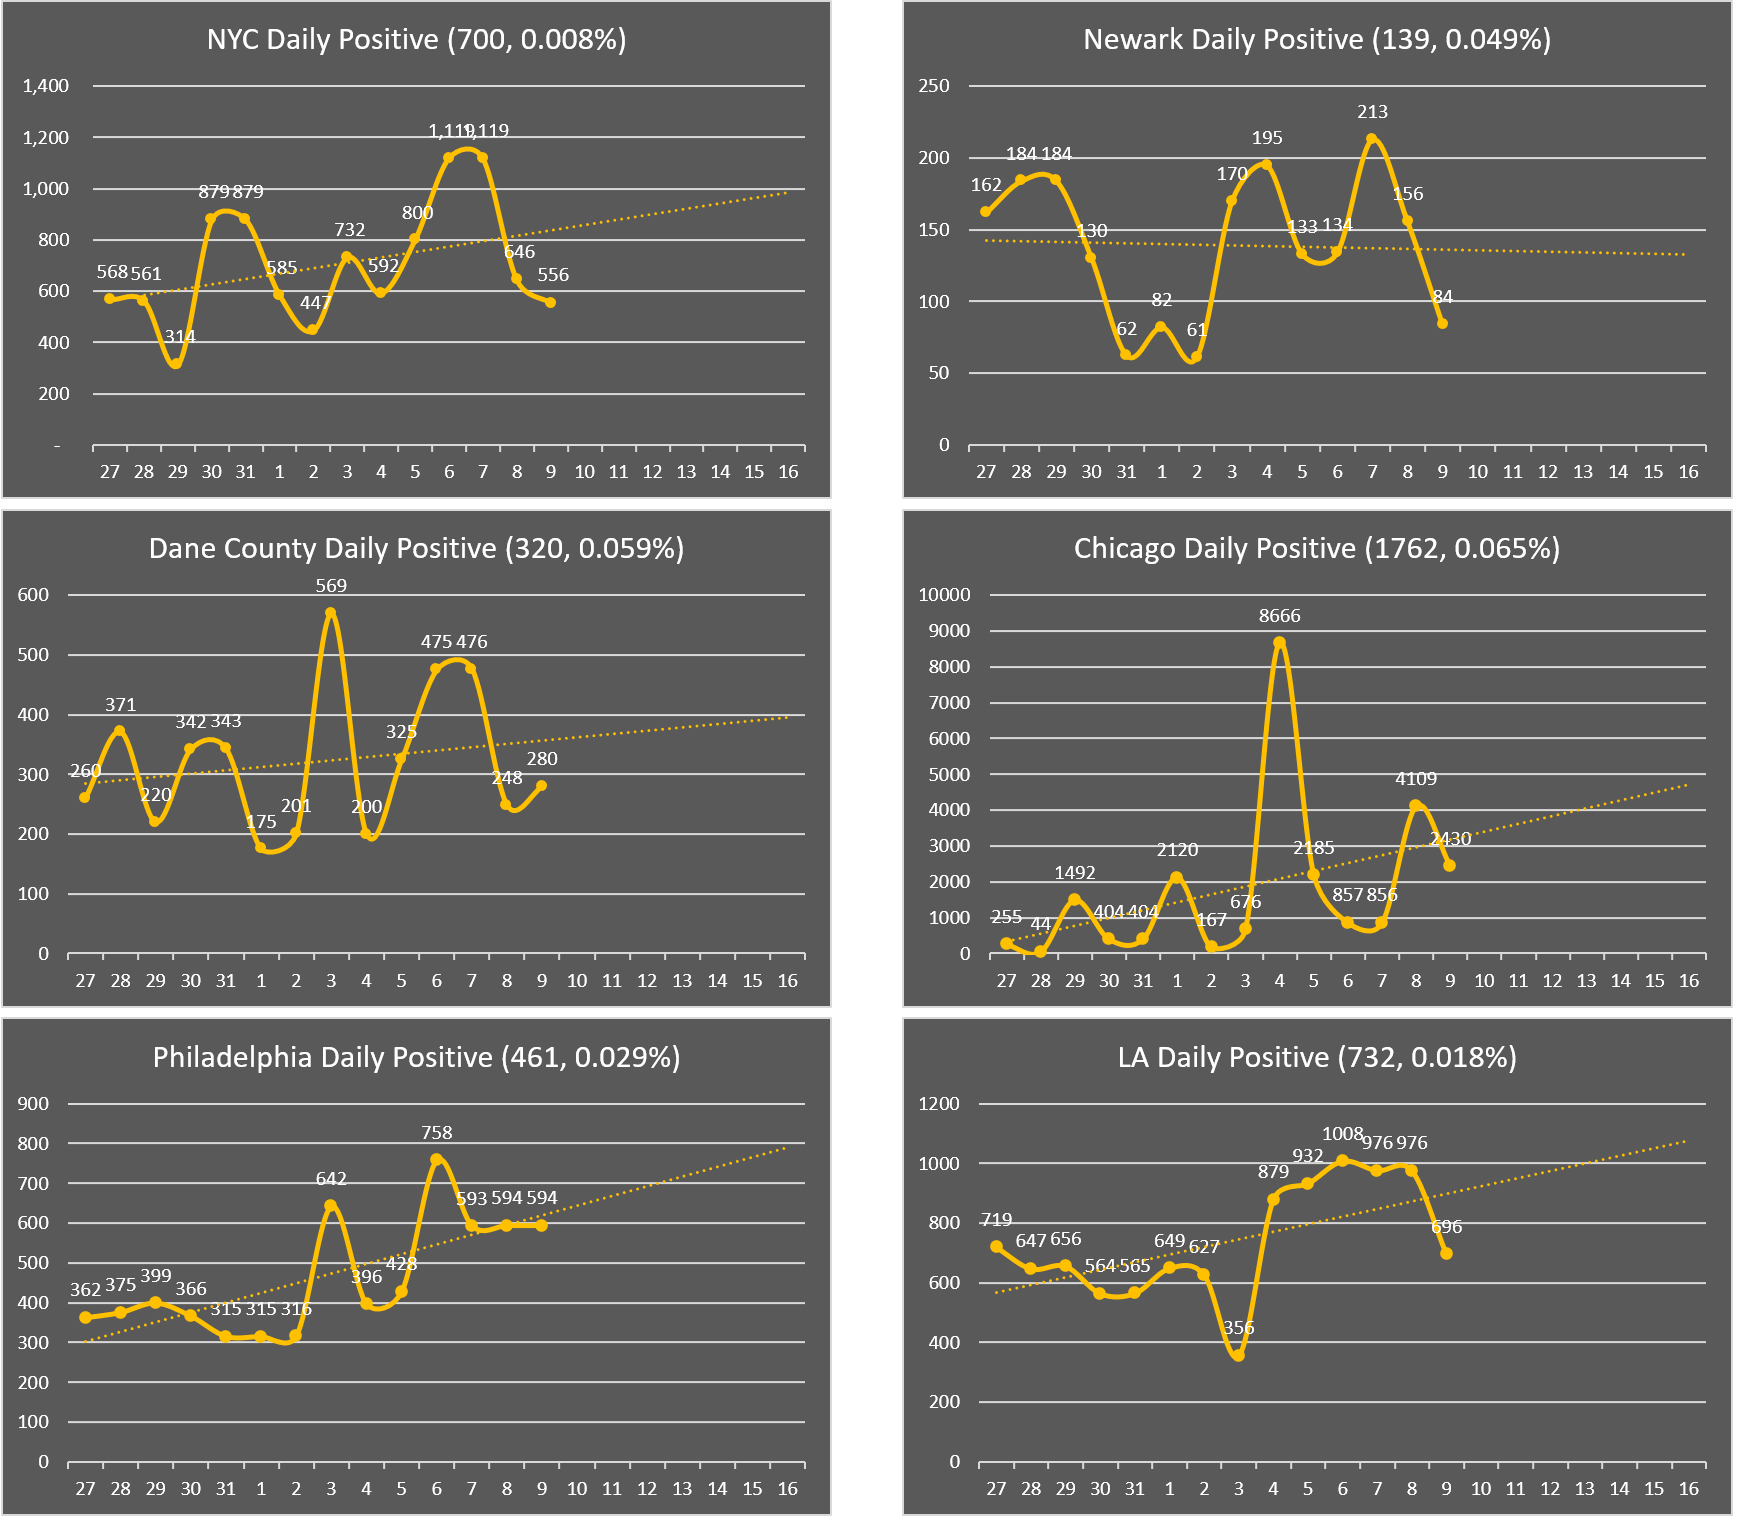
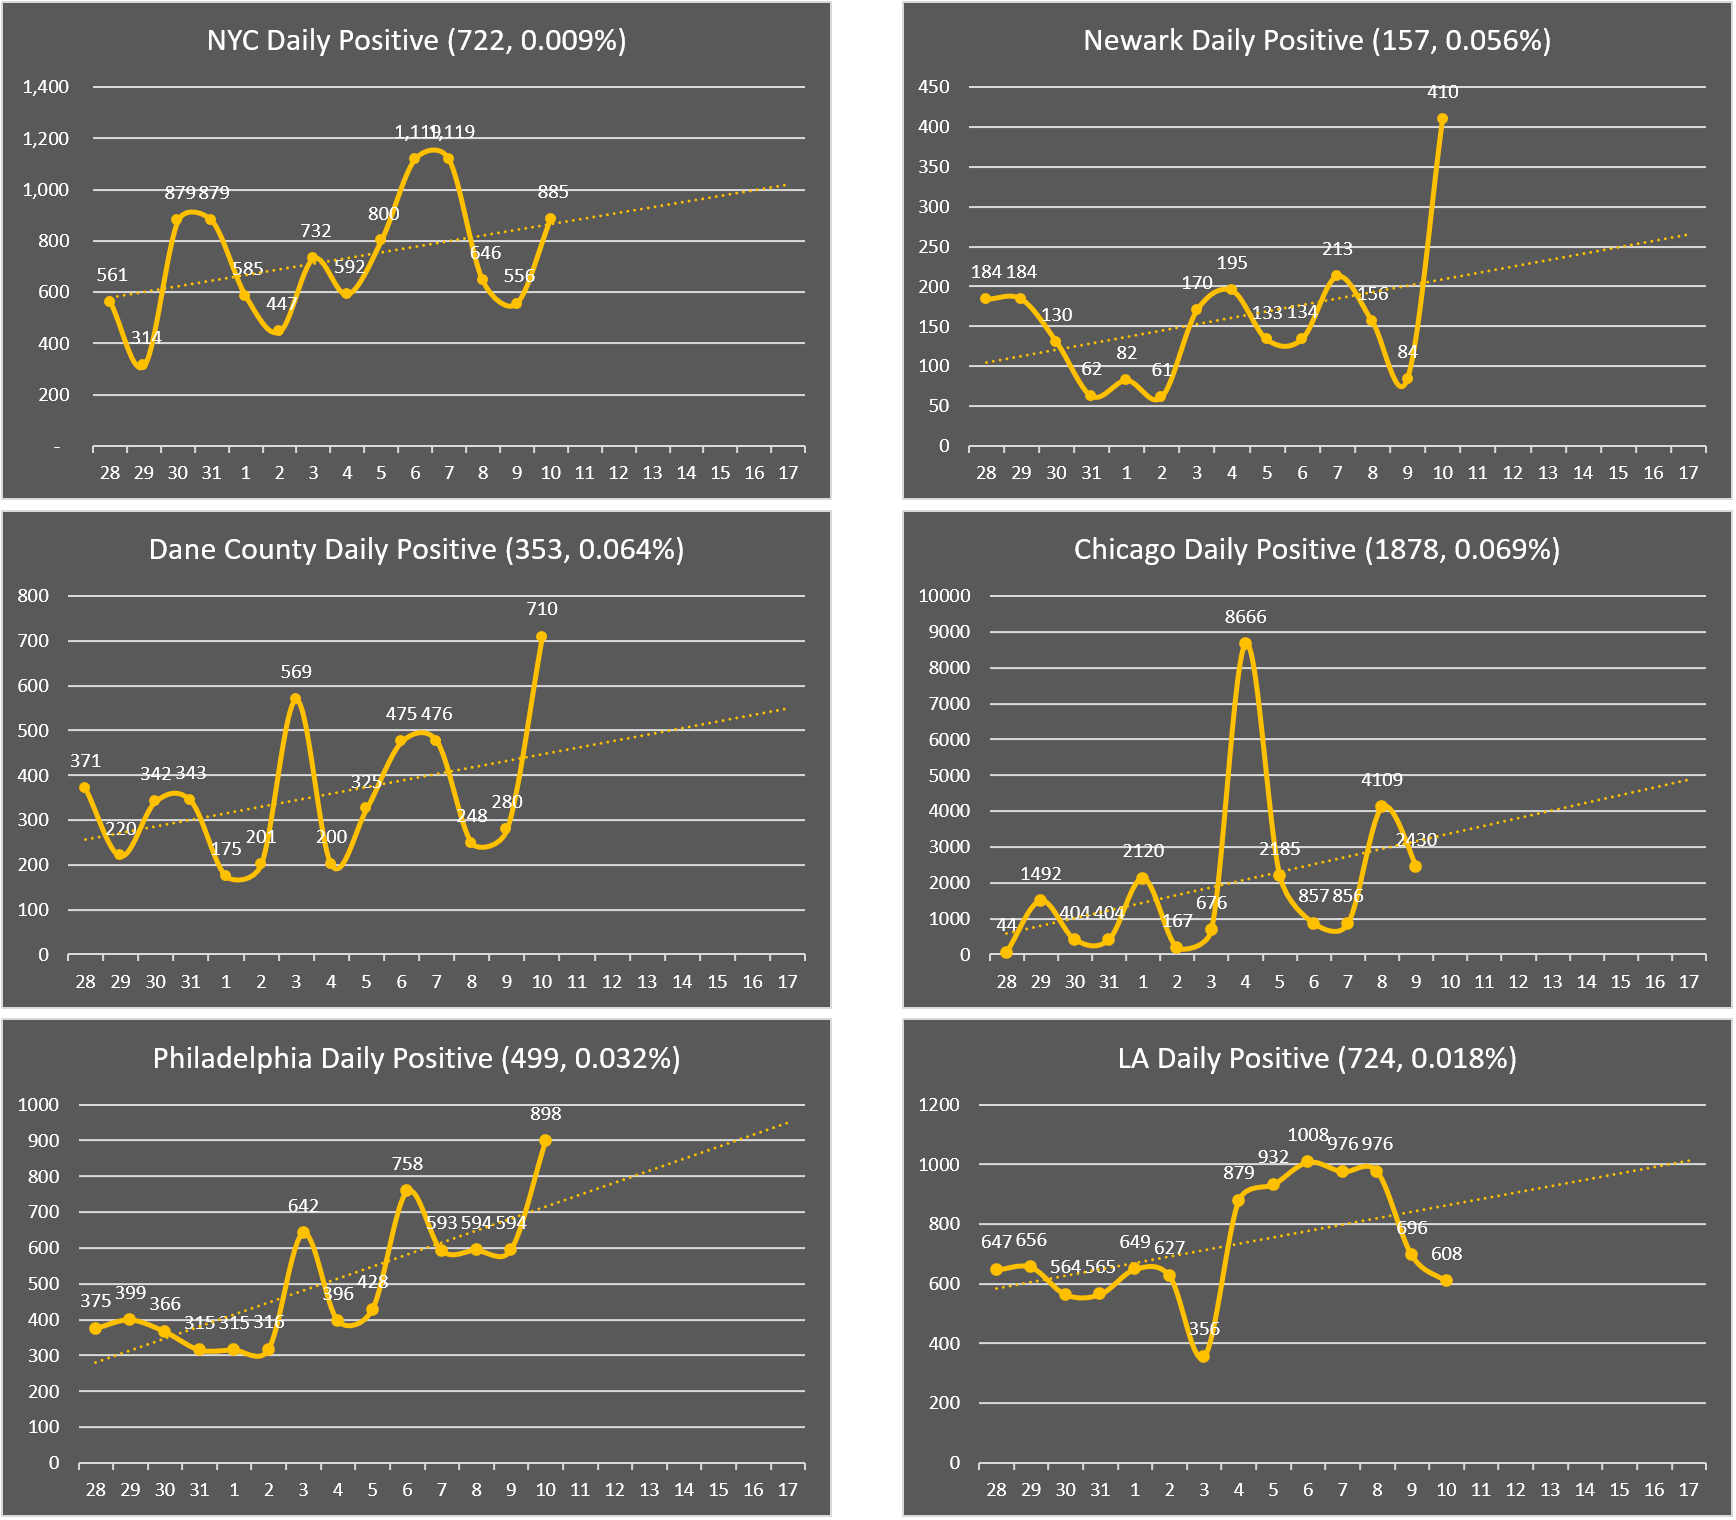
update 11/10 status

diff --git a/index.html b/index.html
@@ -19,7 +19,7 @@
 
 <body class="container-fluid">
 	<h1> CoronaV for Friends</h1>
-	<h2> Data updated at Nov 10 2020 EST 00:55</h2>
+	<h2> Data updated at Nov 10 2020 EST 22:45</h2>
 	<hr>
 	<main>
 		<div class="row">
